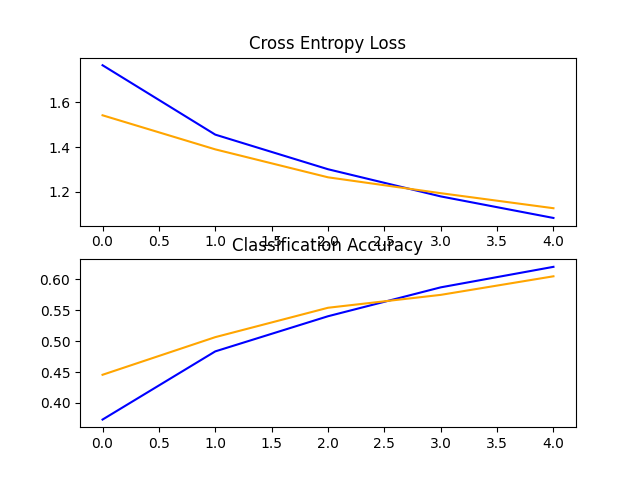
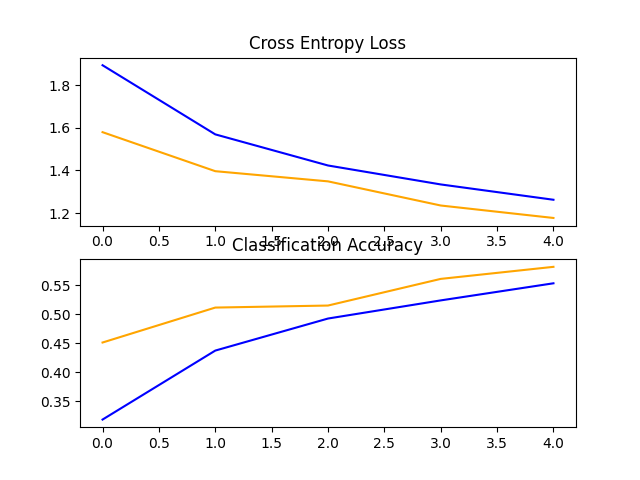
1d

diff --git a/zad1/cifar10.py b/zad1/cifar10.py
@@ -1,21 +1,32 @@
+from ast import Pass
+from re import M
 import sys
 from matplotlib import pyplot
 
 import os
+
+from numpy import format_float_scientific
 os.environ["TF_CPP_MIN_LOG_LEVEL"] = "3"
 
 import ssl
 ssl._create_default_https_context = ssl._create_unverified_context
 
-from tensorflow.keras.datasets import cifar10
+from keras.datasets import cifar10
 from tensorflow.keras.utils import to_categorical
-from tensorflow.keras.models import Sequential
-from tensorflow.keras.layers import Conv2D
-from tensorflow.keras.layers import MaxPooling2D
-from tensorflow.keras.layers import Dense
-from tensorflow.keras.layers import Flatten
+from keras.models import Sequential
+from keras.layers import Conv2D
+from keras.layers import MaxPooling2D
+from keras.layers import Dense
+from keras.layers import Flatten
 from tensorflow.keras.optimizers import SGD
+from keras.layers import Dropout
+from keras.preprocessing.image import ImageDataGenerator
 
+# TO DO
+# zapisywanie wynikiow
+# automatyzacja
+# tablica pomylek
+# rozmiar sieci(liczba warst + neurony), dropout + wspolczynnik, augmentacja, metody SGD, SGD z momentem ADAM
 
 # load train and test dataset
 def load_dataset():
@@ -38,41 +49,65 @@ def prep_pixels(train, test):
     # return normalized images
     return train_norm, test_norm
 
+def add_dropout(model, value:float=0.2, eneable:bool=False):
+    if eneable:
+        model.add(Dropout(value))
 
-def layer_input(model, layer_number:int=1) -> None:
+
+
+def layer_input(model, layer_number:int=1, dropout_value:float=0.2, dropout_eneable:bool=False) -> None:
+    """
+    Specify VGG blocks
+    """
     if layer_number == 1:
         model.add(Conv2D(32, (3, 3), activation='relu', kernel_initializer='he_uniform', padding='same', input_shape=(32, 32, 3)))
         model.add(Conv2D(32, (3, 3), activation='relu', kernel_initializer='he_uniform', padding='same'))
         model.add(MaxPooling2D((2, 2)))
+        add_dropout(model=model,value=dropout_value, eneable=dropout_eneable)
     elif layer_number == 2:
         model.add(Conv2D(32, (3, 3), activation='relu', kernel_initializer='he_uniform', padding='same', input_shape=(32, 32, 3)))
         model.add(Conv2D(32, (3, 3), activation='relu', kernel_initializer='he_uniform', padding='same'))
         model.add(MaxPooling2D((2, 2)))
+        add_dropout(model=model,value=dropout_value, eneable=dropout_eneable)
         model.add(Conv2D(64, (3, 3), activation='relu', kernel_initializer='he_uniform', padding='same'))
         model.add(Conv2D(64, (3, 3), activation='relu', kernel_initializer='he_uniform', padding='same'))
         model.add(MaxPooling2D((2, 2)))
+        add_dropout(model=model,value=dropout_value, eneable=dropout_eneable)
     elif layer_number == 3:
         model.add(Conv2D(32, (3, 3), activation='relu', kernel_initializer='he_uniform', padding='same', input_shape=(32, 32, 3)))
         model.add(Conv2D(32, (3, 3), activation='relu', kernel_initializer='he_uniform', padding='same'))
         model.add(MaxPooling2D((2, 2)))
+        add_dropout(model=model,value=dropout_value, eneable=dropout_eneable)
         model.add(Conv2D(64, (3, 3), activation='relu', kernel_initializer='he_uniform', padding='same'))
         model.add(Conv2D(64, (3, 3), activation='relu', kernel_initializer='he_uniform', padding='same'))
         model.add(MaxPooling2D((2, 2)))
+        add_dropout(model=model,value=dropout_value, eneable=dropout_eneable)
         model.add(Conv2D(128, (3, 3), activation='relu', kernel_initializer='he_uniform', padding='same'))
         model.add(Conv2D(128, (3, 3), activation='relu', kernel_initializer='he_uniform', padding='same'))
         model.add(MaxPooling2D((2, 2)))
+        add_dropout(model=model,value=dropout_value, eneable=dropout_eneable)
 
 
-    
+def specify_number_of_neuron(model, numers_of_neuron:int =128, dropout_value:float=0.2, dropout_eneable:bool=False):
+    """
+    Specifi number of neuron
+    """
+    model.add(Dense(numers_of_neuron, activation='relu', kernel_initializer='he_uniform'))
+    add_dropout(model=model,value=dropout_value, eneable=dropout_eneable)
+    model.add(Dense(10, activation='softmax'))
+
 
 
 # define cnn model
-def define_model():
+def define_model(layer_number:int=1,numers_of_neuron:int=128, dropout_value:float=0.2, dropout_eneable:bool=False):
     model = Sequential()
-    layer_input(model=model,layer_number=1)
+    layer_input(model=model,layer_number=layer_number, dropout_value=dropout_value, dropout_eneable=dropout_eneable)
     model.add(Flatten())
-    model.add(Dense(128, activation='relu', kernel_initializer='he_uniform'))
-    model.add(Dense(10, activation='softmax'))
+    specify_number_of_neuron(model=model,
+                             numers_of_neuron=numers_of_neuron,
+                             dropout_value=dropout_value,
+                             dropout_eneable=dropout_eneable)
+    # model.add(Dense(10, activation='softmax'))
     # compile model
     opt = SGD(learning_rate=0.001, momentum=0.9)
     model.compile(optimizer=opt, loss='categorical_crossentropy', metrics=['accuracy'])
@@ -119,6 +154,25 @@ def summarize_diagnostics(history):
     pyplot.close()
 
 
+def data_augmentation_eneable(model, trainX, trainY, testX, testY,
+                             fit_model_epoch:int=5,
+                             fit_model_batch_size:int=64,
+                             eneable:bool=False):
+    if eneable:
+        # create data generato
+        datagen = ImageDataGenerator(width_shift_range=0.1, height_shift_range=0.1, horizontal_flip=True)
+        # prepare iterator
+        it_train = datagen.flow(trainX, trainY, batch_size=64)
+         # fit model
+        steps = int(trainX.shape[0] / 64)
+        history = model.fit_generator(it_train, steps_per_epoch=steps, epochs=100, validation_data=(testX, testY), verbose=0)
+	# evaluate model
+
+    else:
+        # fit model
+        history = model.fit(trainX, trainY, epochs=5, batch_size=64, validation_data=(testX, testY))
+    return history
+
 # run the test harness for evaluating a model
 def run_test_harness():
     # load dataset
@@ -126,9 +180,13 @@ def run_test_harness():
     # prepare pixel data
     trainX, testX = prep_pixels(trainX, testX)
     # define model
-    model = define_model()
-    # fit model
-    history = model.fit(trainX, trainY, epochs=5, batch_size=64, validation_data=(testX, testY))
+    model = define_model(layer_number=1, numers_of_neuron=128, dropout_value=0.2, dropout_eneable=format_float_scientific)
+    # # fit model
+    # history = model.fit(trainX, trainY, epochs=5, batch_size=64, validation_data=(testX, testY))
+    history = data_augmentation_eneable(model=model, trainX=trainX, trainY=trainY, testX=testX, testY=testY,
+                                        fit_model_epoch=5,
+                                        fit_model_batch_size=64,
+                                        eneable=True)
     # evaluate model
     _, acc = model.evaluate(testX, testY,)
     print('> %.3f' % (acc * 100.0))
